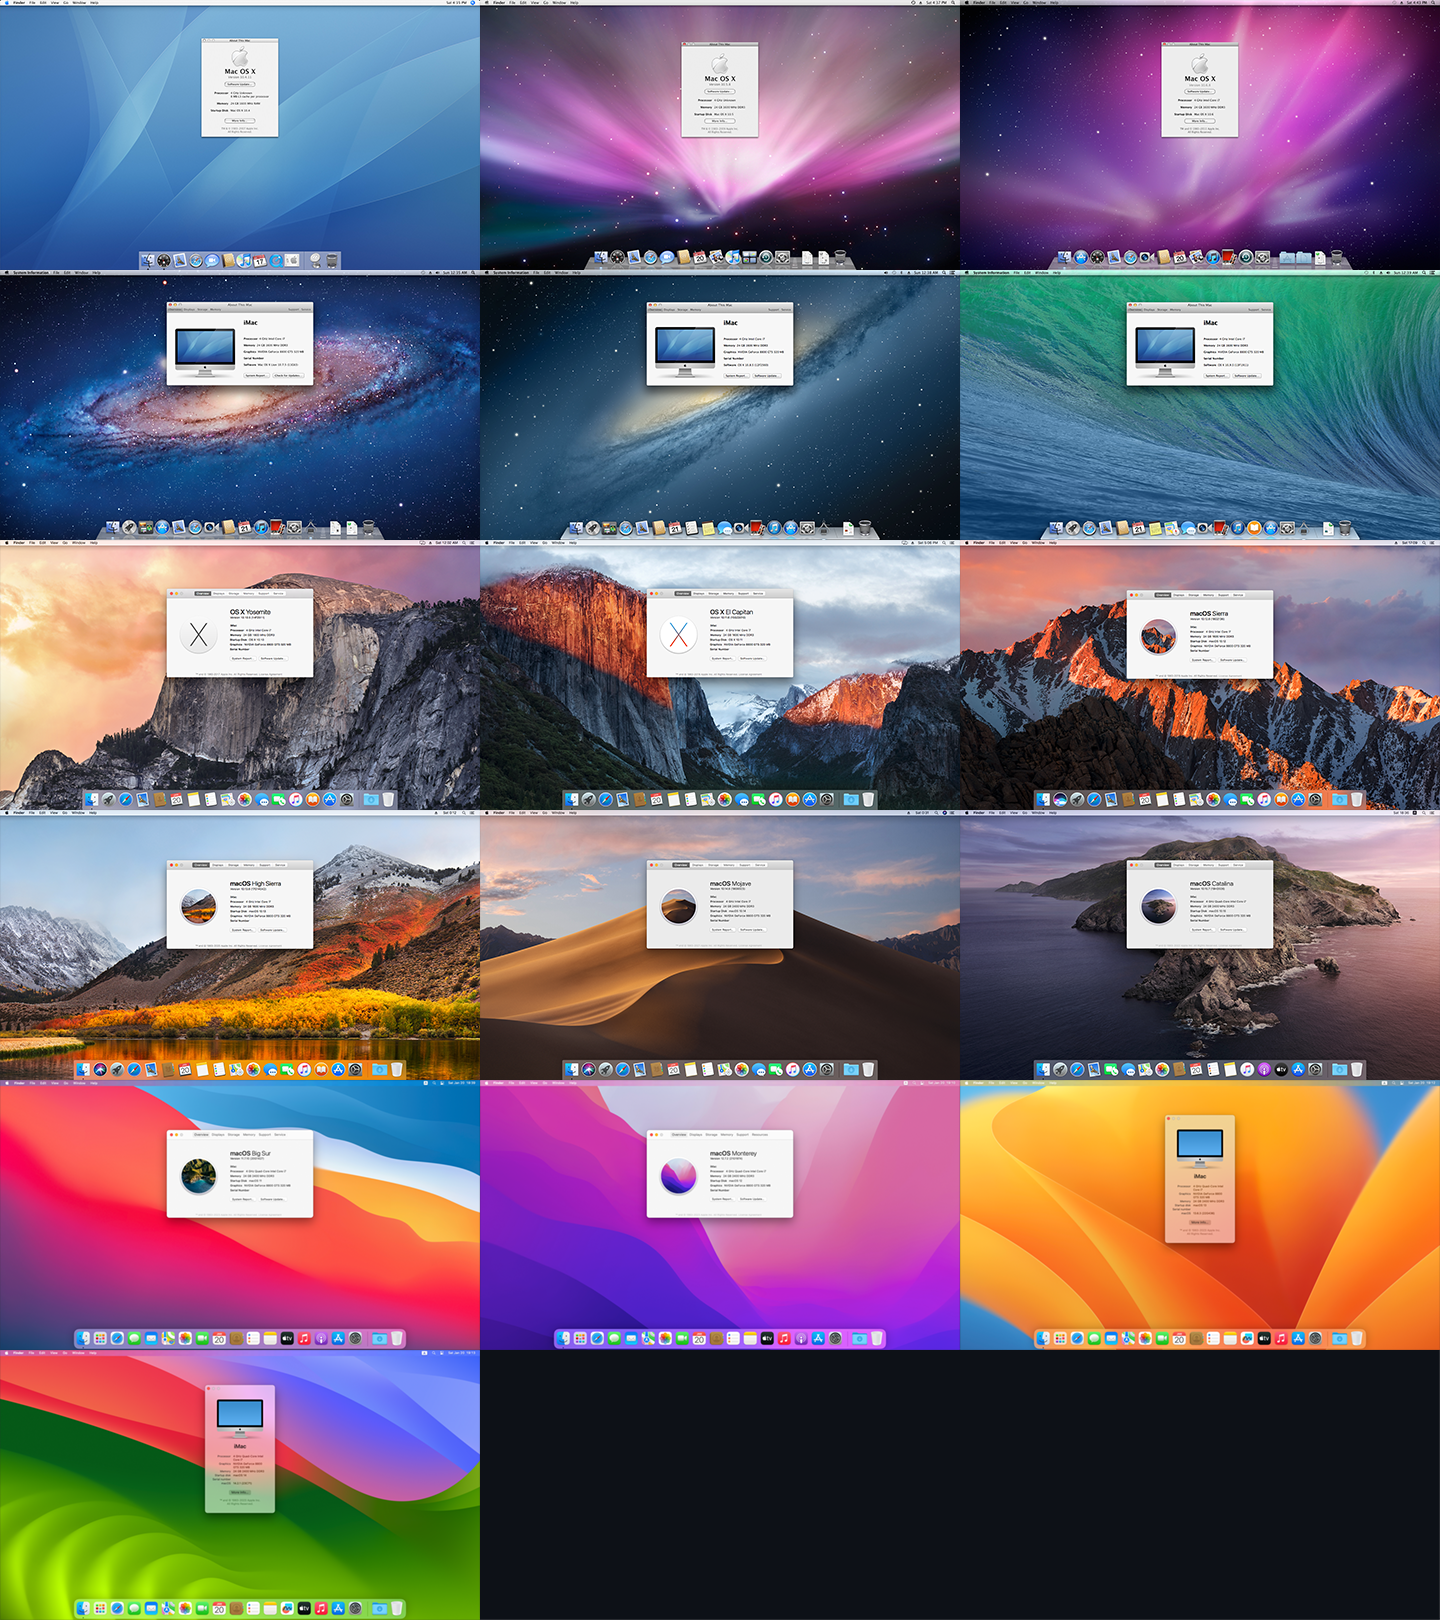
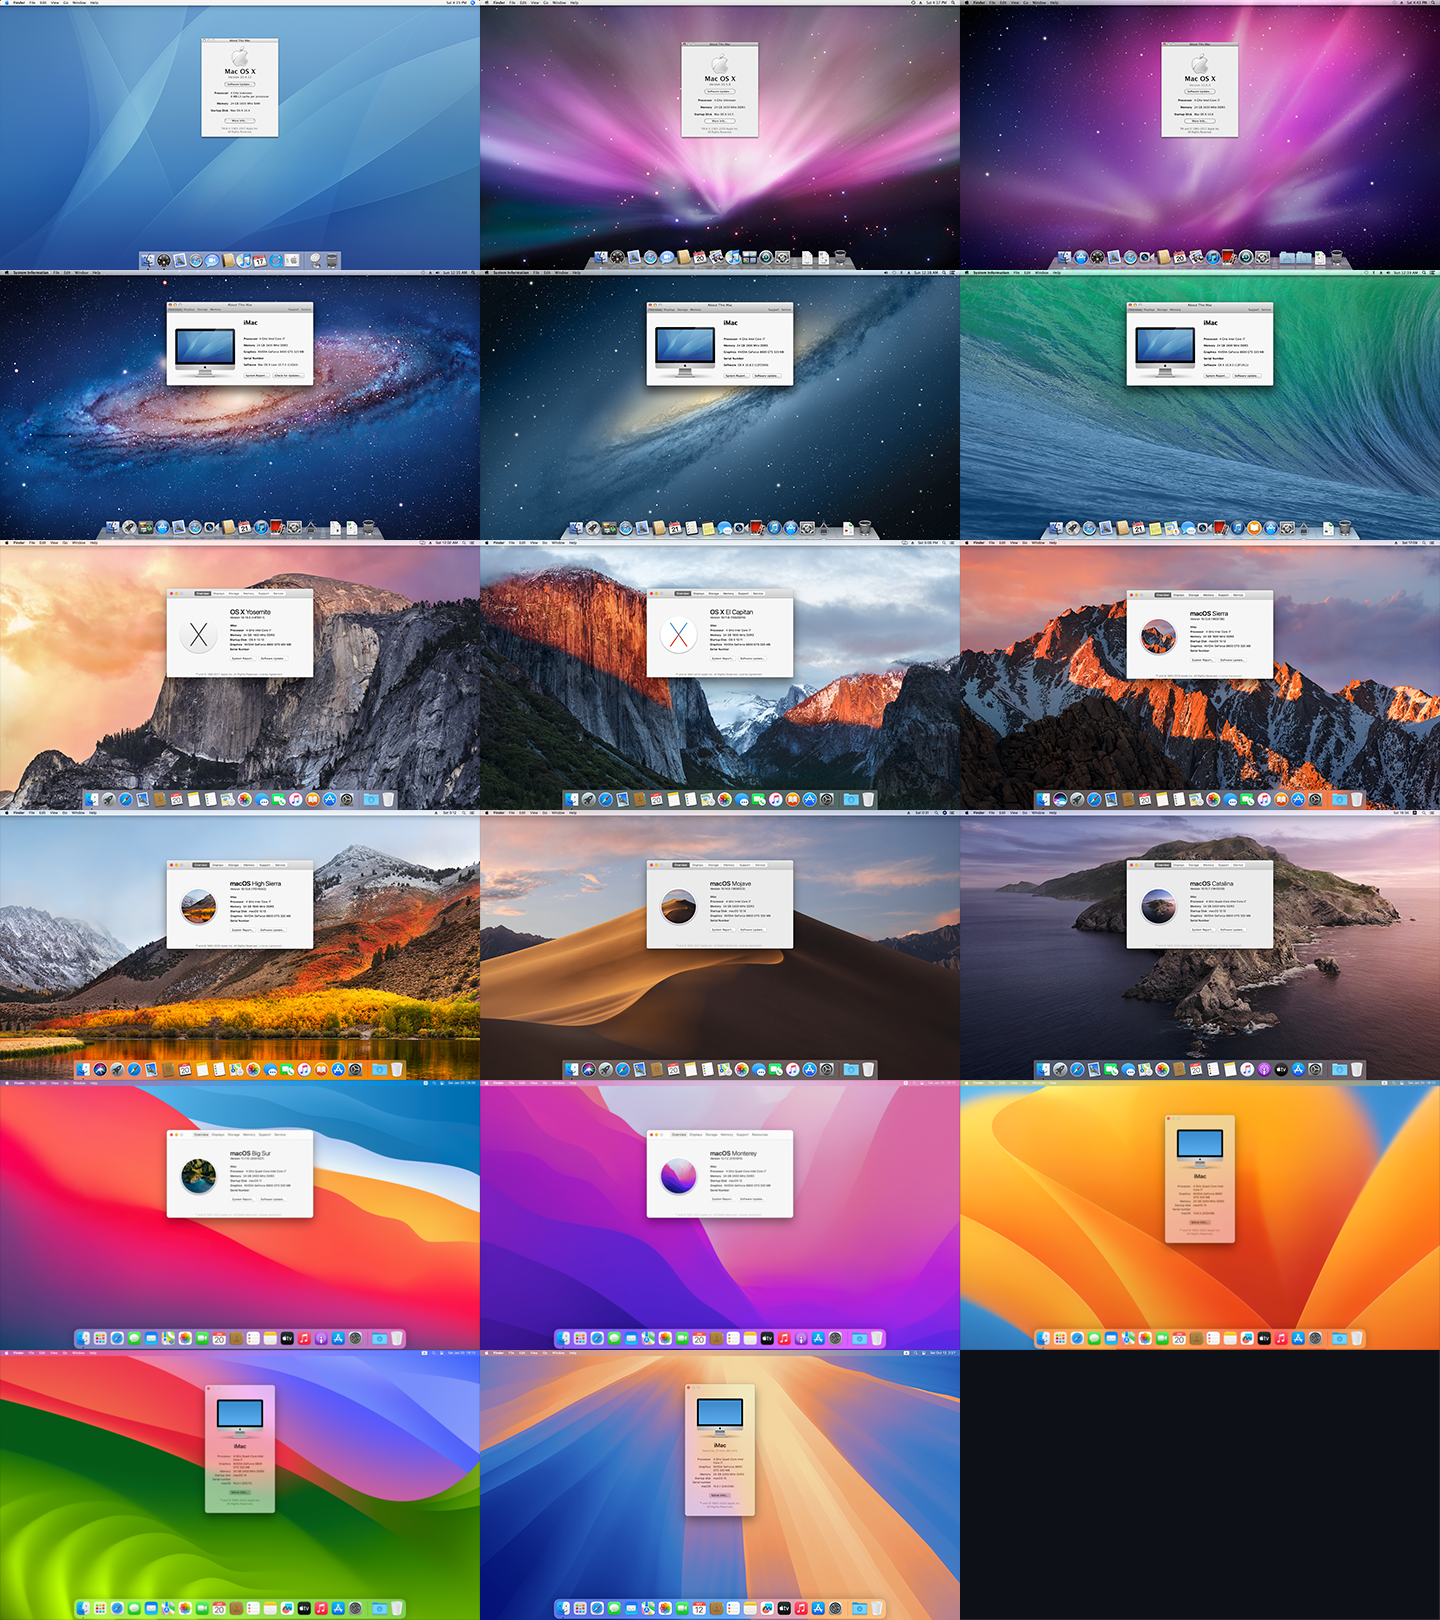
update documents

Changed region(s): [[0.3125, 0.8333, 0.6875, 1.0]]

diff --git a/docs/build_ja.md b/docs/build_ja.md
@@ -10,7 +10,7 @@
 ## はじめに
 2024 年現在、Hackintosh は Apple Silicon の登場により終焉を待つ状況になっている。つまり、過去の傾向を考えると macOS 15 か 16 あたりが Intel macOS の最終バージョンになると思われる。
 
-一方で、[OCLP](https://dortania.github.io/OpenCore-Legacy-Patcher/MODELS.html) では Leopard (10.5) 時代の Intel Mac であっても Sonoma (14) の動作がサポートされている。このことから、ハードウェアの構成次第では最初の Intel macOS である Tiger (10.4) から近い将来にリリースされる最後の Intel macOS までが動作する Hackintosh を構築することができるのでは？と考えた。
+一方で、[OCLP](https://dortania.github.io/OpenCore-Legacy-Patcher/MODELS.html) では Leopard (10.5) 時代の Intel Mac であっても Sequoia (15) の動作がサポートされている。このことから、ハードウェアの構成次第では最初の Intel macOS である Tiger (10.4) から近い将来にリリースされる最後の Intel macOS までが動作する Hackintosh を構築することができるのでは？と考えた。
 
 ## Hardware
 参考 : https://dortania.github.io/OpenCore-Install-Guide/macos-limits.html
@@ -18,6 +18,7 @@
 ### HCL
 |macOS|i7-4790K|8800 GTS|E2205|88E8053|NVMe|AHCI|ATA|ALC1150|
 |-----|--------|--------|-----|-------|----|----|---|-------|
+|15   |✅      |☑ 3.    |✅    |☑ 5.   |✅  |✅  |❌  |✅     |
 |14   |✅      |☑ 3.    |✅    |☑ 5.   |✅  |✅  |❌  |✅     |
 |13   |✅      |☑ 3.    |✅    |☑ 5.   |✅  |✅  |❌  |✅     |
 |12   |✅      |☑ 3.    |✅    |☑ 5.   |✅  |✅  |❌  |✅     |
@@ -86,7 +87,7 @@ Z97M Gaming のオンボード NIC は Atheros Killer E2205 だが、これは L
 
 Realtek RTL8111 シリーズは Tiger でも動作する可能性がある。ただ、Haswell のような新しいマザーボードでは RTL8111 のリビジョンが上がっているので、Tiger で動作するかは不明。
 
-Marvell Yukon 88E8053 は Tiger から kext が OOB で用意されている 1Gbps NIC である。オンボードで搭載されている例は少ないが、PCIe 拡張カードとして以前は流通していた。88E8053 の kext は Mojave (10.14) まで提供されており、Mojave の kext を利用することで Sonoma (14) であっても動作する優れた NIC である。
+Marvell Yukon 88E8053 は Tiger から kext が OOB で用意されている 1Gbps NIC である。オンボードで搭載されている例は少ないが、PCIe 拡張カードとして以前は流通していた。88E8053 の kext は Mojave (10.14) まで提供されており、Mojave の kext を利用することで Sequoia (15) であっても動作する優れた NIC である。
 
 ### SSD
 NVMe SSD は Yosemite (10.10) 以降でしか動作しないため、Mavericks (10.9) 以前では AHCI が必要になる。通常の SATA SSD でも問題ないが、XP941 / SM951 といった PCIe AHCI SSD が最良の選択肢となる。

diff --git a/docs/build_en.md b/docs/build_en.md
@@ -12,7 +12,7 @@
 ## Introduction
 As of 2024, Hackintosh is facing its demise with the transition to Apple Silicon. In other words, considering past trends, macOS 15 or 16 is expected to be the final version of Intel macOS.
 
-On the other hand, [OCLP](https://dortania.github.io/OpenCore-Legacy-Patcher/MODELS.html) supports Sonoma (14) even on Intel Macs from the Leopard (10.5) era. From this, I wondered if it would be possible to build a Hackintosh that runs from the first Intel macOS, Tiger (10.4), to the last Intel macOS released in the near future, depending on the hardware configuration.
+On the other hand, [OCLP](https://dortania.github.io/OpenCore-Legacy-Patcher/MODELS.html) supports Sequoia (15) even on Intel Macs from the Leopard (10.5) era. From this, I wondered if it would be possible to build a Hackintosh that runs from the first Intel macOS, Tiger (10.4), to the last Intel macOS released in the near future, depending on the hardware configuration.
 
 ## Hardware
 Reference: https://dortania.github.io/OpenCore-Install-Guide/macos-limits.html
@@ -20,6 +20,7 @@ Reference: https://dortania.github.io/OpenCore-Install-Guide/macos-limits.html
 ### HCL
 |macOS|i7-4790K|8800 GTS|E2205|88E8053|NVMe|AHCI|ATA|ALC1150|
 |-----|--------|--------|-----|-------|----|----|---|-------|
+|15   |✅      |☑ 3.    |✅    |☑ 5.   |✅  |✅  |❌  |✅     |
 |14   |✅      |☑ 3.    |✅    |☑ 5.   |✅  |✅  |❌  |✅     |
 |13   |✅      |☑ 3.    |✅    |☑ 5.   |✅  |✅  |❌  |✅     |
 |12   |✅      |☑ 3.    |✅    |☑ 5.   |✅  |✅  |❌  |✅     |
@@ -90,7 +91,7 @@ There are limited kexts for NICs that work on 32-bit kernels like Tiger and Leop
   * Even Intel NIC + IntelSnowMausi doesn't work on 32-bit kernels.
 * Realtek RTL8111 series might work on Tiger, but compatibility is uncertain with updated RTL8111 revisions on newer motherboards.
 
-Marvell Yukon 88E8053 is a 1Gbps NIC with an OOB kext in Tiger. It had limited onboard implementations but was available as a PCIe expansion card. The kext works up to Mojave (10.14), and using Mojave's kext allows it to work on Sonoma (14).
+Marvell Yukon 88E8053 is a 1Gbps NIC with an OOB kext in Tiger. It had limited onboard implementations but was available as a PCIe expansion card. The kext works up to Mojave (10.14), and using Mojave's kext allows it to work on Sequoia (15).
 
 ### SSD
 NVMe SSDs only work from Yosemite (10.10) onwards, requiring AHCI for Mavericks (10.9) and earlier. While regular SATA SSDs work, there's an issue with AppleAHCIPort.kext panic on Tiger, making AHCI unusable. Thus, using SATA controllers in IDE mode with AppleIntelPIIXATA.kext is necessary, with the inclusion of ATAPortInjector.kext for Haswell chipset support.

diff --git a/README.md b/README.md
@@ -1,5 +1,5 @@
 # MSI Z97M Hackintosh runs every macOS
-Hackintosh EFI and guide repo for running every Intel macOS versions from Tiger (10.4) to Sonoma (14)
+Hackintosh EFI and guide repo for running every Intel macOS versions from Tiger (10.4) to Sequoia (15)
 
 ![Alt text](images/desktop.png)
 
@@ -31,9 +31,10 @@ Hackintosh EFI and guide repo for running every Intel macOS versions from Tiger 
 
 ## Software
 ### macOS
-* macOS Sonoma 14.3 (23D56)
-* macOS Ventura 13.6.4 (22G513)
-* macOS Monterey 12.7.3 (21H1015)
+* macOS Sequoia 15.0.1 (24A348)
+* macOS Sonoma 14.7 (23H124)
+* macOS Ventura 13.7 (22H123)
+* macOS Monterey 12.7.6 (21H1320)
 * macOS Big Sur 11.7.10(20G1427)
 * macOS Catalina 10.15.7 (19H2026)
 * macOS Mojave 10.14.6 (18G9323)
@@ -49,8 +50,8 @@ Hackintosh EFI and guide repo for running every Intel macOS versions from Tiger 
 * Mac OS X Tiger 10.4.11 (8S2167)
 
 ### Bootloader and patchers
-* [OpenCore](https://github.com/acidanthera/OpenCorePkg) 0.9.7
-* [OpenCore Legacy Patcher](https://github.com/dortania/OpenCore-Legacy-Patcher) 1.3.0
+* [OpenCore](https://github.com/acidanthera/OpenCorePkg) 1.0.2
+* [OpenCore Legacy Patcher](https://github.com/dortania/OpenCore-Legacy-Patcher) 2.0.2
 * [macOS Catalina Patcher](http://dosdude1.com/catalina/) 1.4.7
 * [macOS Mojave Patcher](http://dosdude1.com/mojave/) 1.3.7
 
@@ -83,3 +84,4 @@ Hackintosh EFI and guide repo for running every Intel macOS versions from Tiger 
 ![macOS 12 Monterey](images/12.png)
 ![macOS 13 Ventura](images/13.png)
 ![macOS 14 Sonoma](images/14.png)
+![macOS 14 Sequoia](images/15.png)
